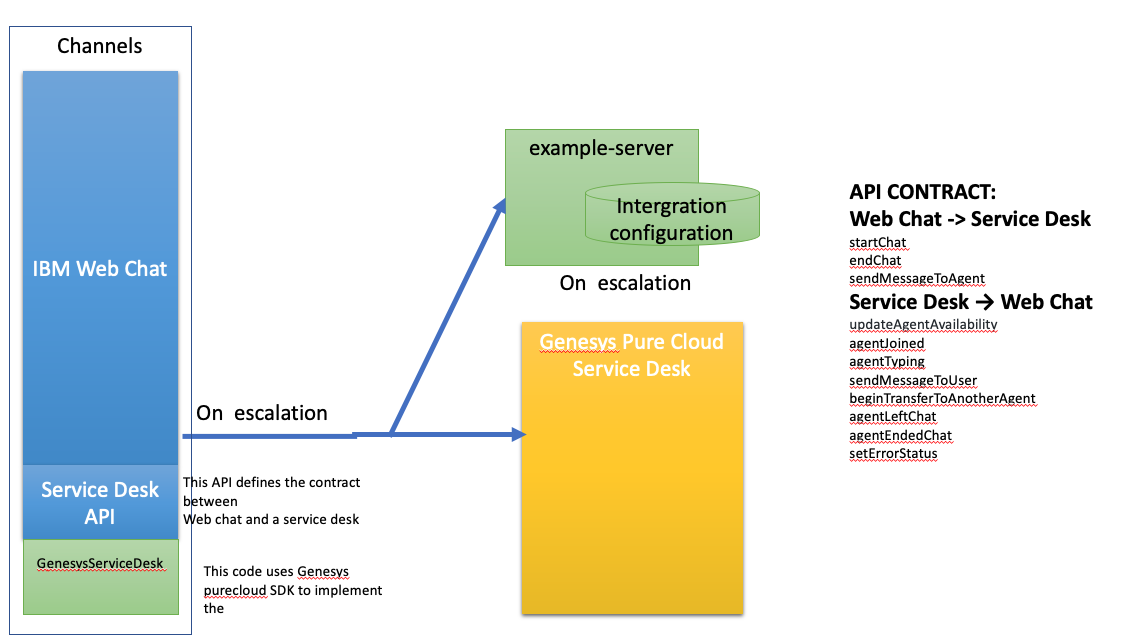
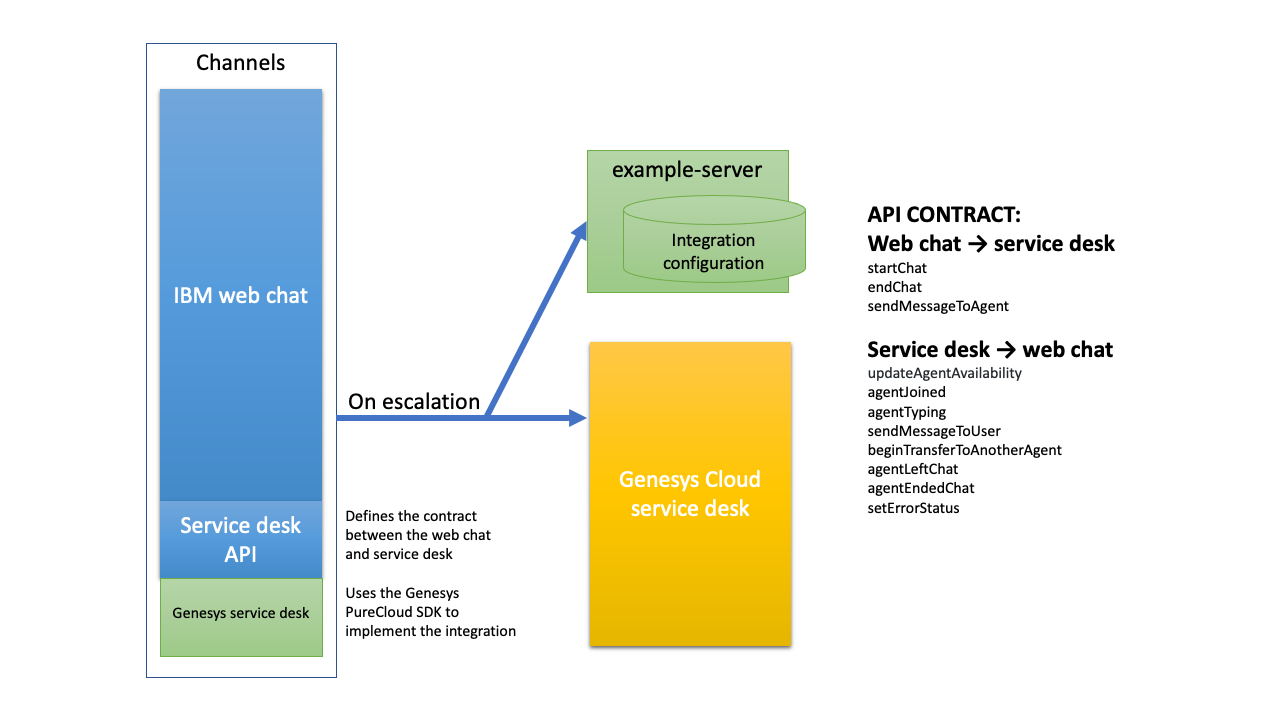
edit genesys readme, revise diagram

diff --git a/docs/STEPS.md b/docs/STEPS.md
@@ -2,84 +2,88 @@
 
 This document outlines a suggested sequence of steps for building a service desk integration using this repository. It is intended as a guide, and you can follow it to whatever extent you choose. At the end of this document are checklists for [core functionality](#core-functionality-checklist) and [optional functionality](#optional-functionality-checklist).
 
+**Note:** Prebuilt reference implementations are available that implement the core features of integrations for Genesys Cloud and Twilio. You can use this process if you want to further customize or extend the reference implementations to include additional features.
+
 Keep the following things in mind as you work through these steps:
 
 - **Typing**. Make a new file in `src/types`, and build type interfaces for input from the service desk as you go.
 
-- **Error Handling**. As a general rule, implementing generic error handling as you go will make it easier to build a more robust error handling flow later on.
+- **Error Handling**. As a general rule, implementing generic error handling as you go makes it easier to build a robust error-handling flow later on.
 
 ## Steps
 
-1. Fork the repository. Run `npm run dev` to ensure that the example (default) setup is working properly.
+1. Fork this repository. Run `npm run dev` to make sure the default example setup is working properly.
 
-1. Take appropriate setup steps in the service desk client. Your service desk should have a JavaScript client, and you will need to follow the setup instructions related to that client to get started.
+1. Take the appropriate setup steps in the service desk client. Your service desk should have a JavaScript client, and you will need to follow the setup instructions related to that client to get started.
 
-    For example, Genesys PureCloud requires that you create a [web chat widget](https://help.mypurecloud.com/articles/create-a-widget-for-web-chat/) and [find your organization ID](https://help.mypurecloud.com/faq/how-do-i-find-my-organization-id/).
+    For example, Genesys Cloud requires that you create a [web chat widget](https://help.mypurecloud.com/articles/create-a-widget-for-web-chat/) and [find your organization ID](https://help.mypurecloud.com/faq/how-do-i-find-my-organization-id/).
 
 1. Copy [serviceDeskTemplate.ts](../src/serviceDesks/serviceDeskTemplate.ts) and give it a new, descriptive name.
 
-1. Modify [buildEntry.ts](../src/buildEntry.ts) to add the import your new class.
+1. Modify [buildEntry.ts](../src/buildEntry.ts) to add the import for your new class.
 
-1. Update `.env` file to update `SERVICE_DESK_CLASS` variable to the new class name. If you do not have `.env` file in the project root, copy and rename `.env-sample` file.
+1. Update the `.env` file to update the `SERVICE_DESK_CLASS` variable to the new class name. If you do not have an `.env` file in the project root, copy and rename the `.env-sample` file.
 
-1. Implement `startChat` to establish a connection with the service desk. This function might involve a number of steps to establish the chat environment, such as:
+1. Implement `startChat()` to establish a connection with the service desk. This function might involve a number of steps to establish the chat environment, such as:
 
-    - Importing or requiring your service desk's API client (you may be able to do this outside of startChat() if you don't need the client loaded in the browser).
+    - Importing or requiring your service desk's API client (you might be able to do this outside of `startChat()` if you don't need the client loaded in the browser).
 
     - Opening a chat channel.
 
     - Connecting an end user to the service desk.
 
-    - Implementing handling of incoming messages from the service desk (just setting up the control flow for different message types, without actually handling them, is sufficient at this stage).
+    - Implementing handling of incoming messages from the service desk (at this stage, it is sufficient to just set up the control flow for different message types, without actually handling them).
 
-    Abstraction is useful here; don't be afraid to add functions that go beyond the `ServiceDesk` interface functionality.
+    Abstraction is useful here; don't be afraid to add functions that go beyond the `ServiceDesk` interface.
 
-1. Implement connecting to a human agent in `this.callback.agentJoined`.
+1. Implement connecting to a human agent in `this.callback.agentJoined()`.
 
-1. Implement `sendMessageToAgent`. Once `startChat` is working properly, this step should be fairly straightforward.
+1. Implement `sendMessageToAgent()`. Once `startChat()` is working properly, this step should be fairly straightforward.
 
-1. Implement receiving messages from the service desk. Depending on your service desk platform, this might encompass several different message types. Start with chat text messages from the human agent to the end user using `this.callback.sendMessageToUser`.
+1. Implement receiving messages from the service desk. Depending on your service desk platform, this might encompass several different message types. Start with chat text messages from the human agent to the end user using `this.callback.sendMessageToUser()`.
 
 1. Implement the functions for ending the chat:
 
-    - For an end user ending the chat, implement `endChat`.
+    - For an end user ending the chat, implement `endChat()`.
 
-    - For a human agent ending the chat, implement `this.callback.agentEndedChat`. The appropriate place to call this function depends on the particular service desk platform being used.
+    - For a human agent ending the chat, implement `this.callback.agentEndedChat()`. The appropriate place to call this function depends on the particular service desk platform being used.
 
 1. Implement the logic supporting agent transfer in the following functions:
 
-    - `this.callback.beginTransferToAnotherAgent` to initiate a transfer
+    - `this.callback.beginTransferToAnotherAgent()` to initiate a transfer
 
-    - `this.callback.agentLeftChat` for the first agent leaving the chat
+    - `this.callback.agentLeftChat()` for the first agent leaving the chat
 
-    - `this.callback.agentJoined` (again) for the new agent joining
+    - `this.callback.agentJoined()` (again) for the new agent joining
 
-    Be sure to consider the difference in behavior between when the first agent joins at the beginning of the chat and when an agent transfer occurs. Both situations use `this.callback.agentJoined`, but differentiating between the two cases is important.
+    Be sure to consider the difference in behavior between when the first agent joins at the beginning of the chat and when an agent transfer occurs. Both situations use `this.callback.agentJoined()`, but differentiating between the two cases is important.
 
-1. Implement the ["nice-to-haves"](#optional-functionality-checklist):
+1. Implement any [optional features](#optional-functionality-checklist) needed for your integration:
 
     - **Updating the web chat state**
 
-        - If your service desk requires the current `sessionID`, `userID`, or `locale` at any time, you need to implement `updateState` and invoke it in `startChat` at minimum.
+        - If your service desk requires the current `sessionID`, `userID`, or `locale` at any time, implement `updateState()` and invoke it in `startChat()`.
+
+            **Note:** For a Genesys Cloud integration, this is required in order to provide the service desk with a value for `displayName`. The Genesys Cloud [reference implementation](../src/middleware/genesys/README.md) implements this functionality.
 
     - **Typing indicators**, to the extent your service desk supports them:
-        - Human agent typing: `this.callback.agentTyping`
-        - End user typing: `userTyping`
+        - Human agent typing: `this.callback.agentTyping()`
+        - End user typing: `userTyping()`
 
     - **Read receipts**:
 
-        - If your service desk supports reception and posting of read receipts from the end user, you can implement `userReadMessages`.
+        - If your service desk supports reception and posting of read receipts from the end user, you can implement `userReadMessages()`.
 
-        - If your service desk supports sending read receipts from the human agent, you can implement `this.callback.agentReadMessages`.
+        - If your service desk supports sending read receipts from the human agent, you can implement `this.callback.agentReadMessages()`.
 
         **Note:** Currently, the web chat does not support sending read receipts to the service desk. (This support might be added in a later version.)
 
-    - **Agent nickname and avatar**. If you can get these from your service desk, you can provide them as properties of the `AgentProfile` that you pass to `this.callback.AgentJoined`:
+    - **Agent nickname and avatar**. If you can retrieve these values from your service desk, you can provide them as properties of the `AgentProfile` that you pass to `this.callback.AgentJoined()`:
 
         - `AgentProfile.nickname`
         - `AgentProfile.profile_picture_url`
 
-1. Implement error handling, including recognizing errors from the service desk to the extent your service desk API allows. Use `this.callback.setErrorStatus` to post error information in the web chat and in the console.
+1. Implement error handling, including recognizing errors from the service desk to the extent your service desk API allows. Use `this.callback.setErrorStatus()` to post error information in the web chat and in the console.
 
 1. Implement user authentication. Provide a means to authenticate the web chat to the service desk. Note that this cannot be done securely in the browser. Instead, use a secure middleware server to do the following:
 
@@ -87,17 +91,23 @@ Keep the following things in mind as you work through these steps:
     - Make authenticated calls to your service desk API
     - Return the required user authentication information (such as a token)
 
-    Implementation of this step will vary significantly depending on your service desk provider's API, how it handles authentication, and how you choose to handle authentication for your middleware server. A simple (insecure) implementation for Genesys is shown [here](https://github.com/watson-developer-cloud/assistant-web-chat-service-desk-starter/tree/main/src/actualServiceDeskExamples/genesysPureCloud/example-server). Further documentation on authenticated chat flow for Genesys can be found [here](https://developer.mypurecloud.com/api/webchat/authenticated-chat.html).
+    Implementation of this step will vary significantly depending on your service desk provider's API, how it handles authentication, and how you choose to handle authentication for your middleware server.
+
+        For example, a Genesys Cloud integration requires that you set up an OAuth client ](https://help.mypurecloud.com/articles/create-an-oauth-client/) that uses a client credentials grant. You can then make a request to the OAuth client using the Genesys PureCloud [REST API](https://developer.mypurecloud.com/api/rest/authorization/use-client-credentials.html) for an access token. (For more information, see [the Genesys PureCloud tutorial](https://developer.mypurecloud.com/api/tutorials/oauth-client-credentials/?language=nodejs&step=1).) See the Genesys Cloud [reference implementation](../src/middleware/genesys/README.md) for a simple example.
+
+        for more information about authenticated chat flow for Genesys Cloud, see the [Genesys PureCloud API documentation](https://developer.mypurecloud.com/api/webchat/authenticated-chat.html).
 
     After you have implemented authentication, change your chat implementation in the service desk tooling (for example, the web chat widget in Genesys) to require authentication. Then test to make sure that establishing a chat succeeds only if the user is properly authenticated.
 
 1. If possible, provide more information about agent availability and wait status. If your service desk provides information about the user's place in the queue, agent availability, or wait time:
 
-    - Implement `areAnyAgentsOnline` in order to check for agent availability.
+    - Implement `areAnyAgentsOnline()` in order to check for agent availability.
 
-    - Provide availability information to the end user using `this.callback.updateAgentAvailability`.
+    - Provide availability information to the end user using `this.callback.updateAgentAvailability()`.
 
     Make sure your error-handling flow includes cases in which it is not possible to connect the end user to an agent (for example, if no agents are available).
+
+        For example, a Genesys Cloud integration would use the PureCloud REST API to [qhttps://developer.mypurecloud.com/api/rest/v2/analytics/queue.html]. (For more information, see the Genesys Cloud [tutoriall](https://developer.mypurecloud.com/api/tutorials/number-of-agent-in-queue/?language=python&step=1).
 
 ## Core Functionality Checklist
 

diff --git a/src/middleware/genesys/README.md b/src/middleware/genesys/README.md
@@ -1,34 +1,71 @@
-# Genesys PureCloud integration example
+# Genesys Cloud integration example
 
-This is a functioning service desk integration with Genesys PureCloud. This is a reference implementation that provides a fully functional integration. It is advised that you will conduct robust testing before going live.
+This is a functioning service desk integration between Watson Assistant and Genesys Cloud. This is a reference implementation that provides a fully functional integration.
+
+**Important:** You should perform robust testing before deploying this integration in production.
+
+This reference implementation supports the core features of a Genesys Cloud integration. If you want to customize or extend it to add more features, follow the procedure described in the [README](../../../README.md) for this repository.
+
+    You can refer to these Genesys docs and resources for more information about using the Genesys PureCloud API:
+
+      - [Guest Chat Client - JavaScript](https://developer.mypurecloud.com/api/rest/client-libraries/javascript-guest/index.html)
+
+      - [Guest Chat APIs](https://developer.mypurecloud.com/api/webchat/guestchat.html)
+
+      - [Guest Chat Client API documentation](https://developer.mypurecloud.com/api/rest/client-libraries/javascript-guest/WebChatApi.html)
+
+      - [Guest Chat Client API source code](https://github.com/MyPureCloud/purecloud-guest-chat-client-javascript/blob/9599e33609a87358671532b10e53fad24e592373/build/src/purecloud-guest-chat-client/api/WebChatApi.js)
 
 ## Overview
 
+The Genesys Cloud integration consists of two main components: client-side code that runs in the user's browser, and server-side code that you host.
+
 ![Genesys Architecture Overview](./arch-overview.png)
-The Genesys PureCloud Integration comprises of both client side code that runs in the end user browser and server side code that you should host.
-\
-The client side component manages the communication between the end user and the agent. It implements a pre-defined api that is fully supported by Watson Assistant Web chat integration. The details of this api can be found at [ServiceDesk API](../../types/serviceDesk.ts) and [ServiceDesk Callback](../../types/serviceDeskCallback.ts). The communication uses an SDK provided by Genesys which can be found at [Guest Chat Client - JavaScript](https://developer.mypurecloud.com/api/rest/client-libraries/javascript-guest/index.html). This sdk is based on Websockets which enable two way communication. However, there are certain advanced capabilities that require a different set of APIs which are provided by [Genesys REST APIs](https://developer.mypurecloud.com.au/api/rest/v2/).
 
-## Setting it up
+The client-side component manages the communication between the user and the agent. It implements the service desk API that is fully supported by the Watson Assistant web chat integration. (For more information about this API, see [ServiceDesk API](https://github.com/watson-developer-cloud/assistant-web-chat-service-desk-starter/blob/main/docs/API.md)).
 
-0. If you haven't already, follow the setup steps in the root-level [README](../../../README.md) to ensure you can run an instance of [ExampleServiceDesk](../../serviceDesks/exampleServiceDesk.ts).
-1. Update [purecloudSetup.ts](../../serviceDesks/genesys/purecloudSetup.ts) to populate with your organization information.
-    - `DEPLOYMENT_ID` -> [create a web chat widget v1.1](https://help.mypurecloud.com/articles/create-a-widget-for-web-chat/)
-    - `ORGANIZATION_ID` -> [find my organization ID](https://help.mypurecloud.com/faq/how-do-i-find-my-organization-id/)
-2. Go to the project root directory and update `.env` file to update `SERVICE_DESK_CLASS` variable to  `GenesysServiceDesk`. 
-3. Go to the project root directory and run `npm run dev` as you normally would. If you've linked everything to your PureCloud account correctly, you should be able to connect to an agent in PureCloud.
+The communication uses the Genesys guest chat SDK, which can be found at [Guest Chat Client - JavaScript](https://developer.mypurecloud.com/api/rest/client-libraries/javascript-guest/index.html). This SDK is based on WebSocket, which enables two-way communication. For some advanced functions, the integration also uses the Genesys [REST API](https://developer.mypurecloud.com.au/api/rest/v2/).
 
-As described above, advanced functionality such as authenticated chat and agent availability require a REST API which requires additional setup:
+## Setting up
 
-0. The REST API requires access via credentials. If you haven't already, [setup an OAuth client](https://help.mypurecloud.com/articles/create-an-oauth-client/) in PureCloud tooling that uses a client credentials grant.
-1. Navigate to the `example-server` directory nested within this directory. Rename `.env-sample` to `.env`, and fill in `GENESYS_CLIENT_ID` and `GENESYS_CLIENT_SECRET` with the credentials from your OAuth client.
-2. In the `example-server` directory, run `npm i`.
-3. In the `example-server` directory, run `npm start`. This should start a server on port 3000 of your local machine.
-4. The server needs to be accessed from the browser of your end users. If you do not have your own hosted environment and you wish to expose your local development, one such possibility  is the usage of [ngrok](https://ngrok.com/):
-`ngrok http http://localhost:3000`
-5. Copy the resulting forwarding address (copy the HTTPS one!) and set `AUTH_SERVER_BASE_URL` in `purecloudSetup.ts` to that address.
-6. In the settings for your web chat widget in PureCloud tooling, set "Require Authentication" to on. Append `/jwt` to your ngrok forwarding address (as in, `<your-ngrok-url>/jwt`) and paste this in the "Authentication URL" field. Hit save.
+1. If you haven't done so already, follow the setup steps in the root-level [README](../../../README.md) to make sure you can run an instance of [ExampleServiceDesk](../../serviceDesks/exampleServiceDesk.ts).
 
-7. In [genesysServiceDesk.ts](../../serviceDesks/genesys/genesysServiceDesk.ts), set the flags `WIDGET_REQUIRES_AUTHENTICATION` and `AUTHENTICATED_CALLS_ENABLED` to `true`.
-    - Note: It's easiest to set the server up in full at the beginning, but these flags are independent. you may disable authentication in your web chat widget and set `WIDGET_REQUIRES_AUTHENTICATION` to `false`, and the server will still fetch an OAuth access token and serve agent availability, and vice versa.
-8. Run the service desk dev environment again, if you're not already (`npm run dev`), and test: the server should authenticate the chat and fetch agent availability.
+1. In Genesys Cloud, [create a widget](https://help.mypurecloud.com/articles/create-a-widget-for-web-chat/) to enable users to chat with agents. Make a note of the widget ID.
+
+1. Update [`purecloudSetup.ts`](../../serviceDesks/genesys/purecloudSetup.ts) to populate it with your information.
+    - `ORGANIZATION_ID`: Your Genesys Cloud organization ID. You can find this ID in the [Genesys Cloud settings](https://help.mypurecloud.com/faq/how-do-i-find-my-organization-id/).
+    - `DEPLOYMENT_ID`: The ID of the widget you created in the previous step.
+
+1. Go to the project root directory and edit the `.env` file. Update the `SERVICE_DESK_CLASS` variable to `GenesysServiceDesk`.
+
+1. From the project root directory, run `npm run dev`. If you've linked everything to your Genesys Cloud account correctly, you should be able to connect to an agent in Genesys Cloud.
+
+To configure advanced functionality such as authenticated chat and agent availability status, follow these steps:
+
+1. If you haven't done so already, [set up a Genesys Cloud OAuth client](https://help.mypurecloud.com/articles/create-an-oauth-client/).
+
+1. In the `example-server` subdirectory, rename or copy `.env-sample` to `.env`.
+
+1. In the `.env` file, update the values of the `GENESYS_CLIENT_ID` and `GENESYS_CLIENT_SECRET` to the credentials from your Genesys OAuth client.
+
+1. From the `example-server` directory, run `npm i`.
+
+1. From the `example-server` directory, run `npm start`. This starts a server on port 3000 of your local machine.
+
+1. The server needs to be accessed from the browser of your end users. If you do not have your own hosted environment and you wish to expose your local development for testing, consider using a service such as [ngrok](https://ngrok.com/) to create a public URL:
+
+    ```
+    ngrok http http://localhost:3000`
+    ```
+
+1. In [`purecloudSetup.ts`](../../serviceDesks/genesys/purecloudSetup.ts), set the value of `AUTH_SERVER_BASE_URL` to the public URL for your server. Make sure you specify the `https://` URL.
+
+1. In the Genesys Cloud user interface, open the settings for your web chat widget and enable **Require Authentication**.
+
+1. In the **Authentication URL** field, specify `https://<server-url>/jwt`, where `<server-url>` is the public URL for your server. Click **Save**.
+
+1. In [`genesysServiceDesk.ts`](../../serviceDesks/genesys/genesysServiceDesk.ts), set the `WIDGET_REQUIRES_AUTHENTICATION` and `AUTHENTICATED_CALLS_ENABLED` flags to `true`.
+
+    **Note:** These flags are independent, so you do not have to enable both simultaneously. For example, if you set `WIDGET_REQUIRES_AUTHENTICATION = false` and `AUTHENTICATED_CALLS_ENABLED = true`, authentication willl be disabled in the web chat widget, but the server will still use an OAuth token to authenticate when accessing agent availability status.
+
+1. From the project root directory, run `npm run dev` again, and test. The server should now authenticate the chat and fetch agent availability.

diff --git a/src/middleware/genesys/example-server/README.md b/src/middleware/genesys/example-server/README.md
@@ -2,14 +2,7 @@
 
 ## About
 
-This server provides an example of how one can access [Genesys REST APIs](https://developer.mypurecloud.com.au/api/rest/v2/).
-Specifically, it has already implemented how one can authenticate users and how to check if agents are available.
+This server is an example of how to access the [Genesys PureCloud REST API](https://developer.mypurecloud.com.au/api/rest/v2/).
+Specifically, it implements user authentication and agent availability status.
 
-## Setup
-
-- Make sure you've installed the proper npm modules (run `npm i` in this directory)
-- Rename ".env-sample" to ".env" and fill in the template with your unique account information.
-- You can run a server with `npm start`
-- Expose the local server via your cloud environment, alternatively, if you do not have your own hosted environment and you wish to expose your local development, one such possibility  is the usage of [ngrok](https://ngrok.com/): `ngrok http http://localhost:3000`,
-- use your `<ngrok-url>` as the authentication URL required in `purecloudSetup.ts`
-- use POST `<ngrok-url>/jwt` to obtain a valid JWT to authenticate your code.
+For more information about how to use this server, see the [Genesys Cloud reference implementation README](../README.md).
